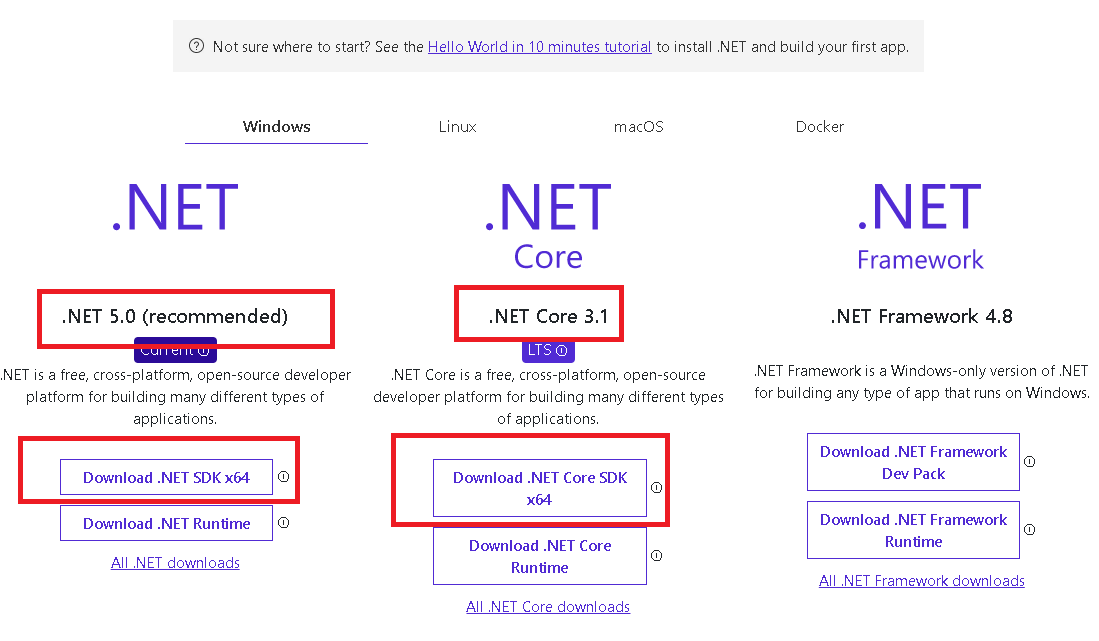
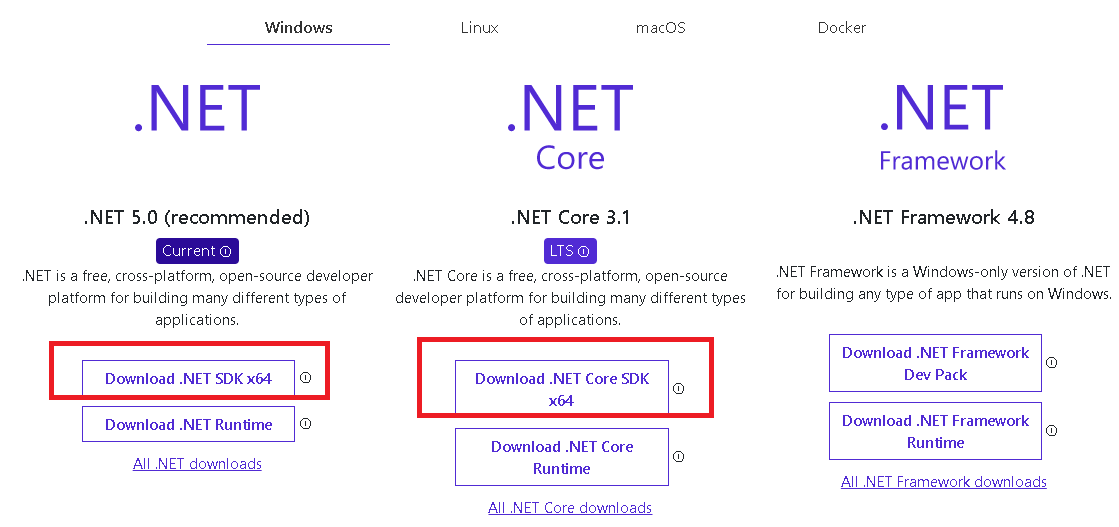
read

diff --git a/README.md b/README.md
@@ -1,10 +1,10 @@
 # Help-SDK-Runtime
 
 ## SDK
-Tudo o que é necessário para o desenvolvimento de um app .NET Core.   
-Disponibiliza um CLI para criar, compilar, executar e publicar aplicações.
+O Kit de Desenvolvimento de Software (SDK) é tudo o que é necessário para o desenvolvimento de um app .NET Core.   
+Ele disponibiliza um CLI para criar, compilar, executar e publicar aplicações.  
+Página oficial de download:  
 
-<br>
 <br>
 
 ![alt text](images/00.png?raw=true=250x250 "Title")  
@@ -22,6 +22,7 @@ Disponibiliza um CLI para criar, compilar, executar e publicar aplicações.
 Ao **hospedar/implantar** o app, tudo o que precisamos para executar a aplicação é o _Runtime_. 
 
 Para implantar uma aplicação usando o IIS por exemplo, instalamos uma outra ferramenta chamada _Hosting Bundle_ (Pacote de Hospedagem):
+
 
 ![alt text](images/01.png?raw=true=250x250 "Title")  
 
